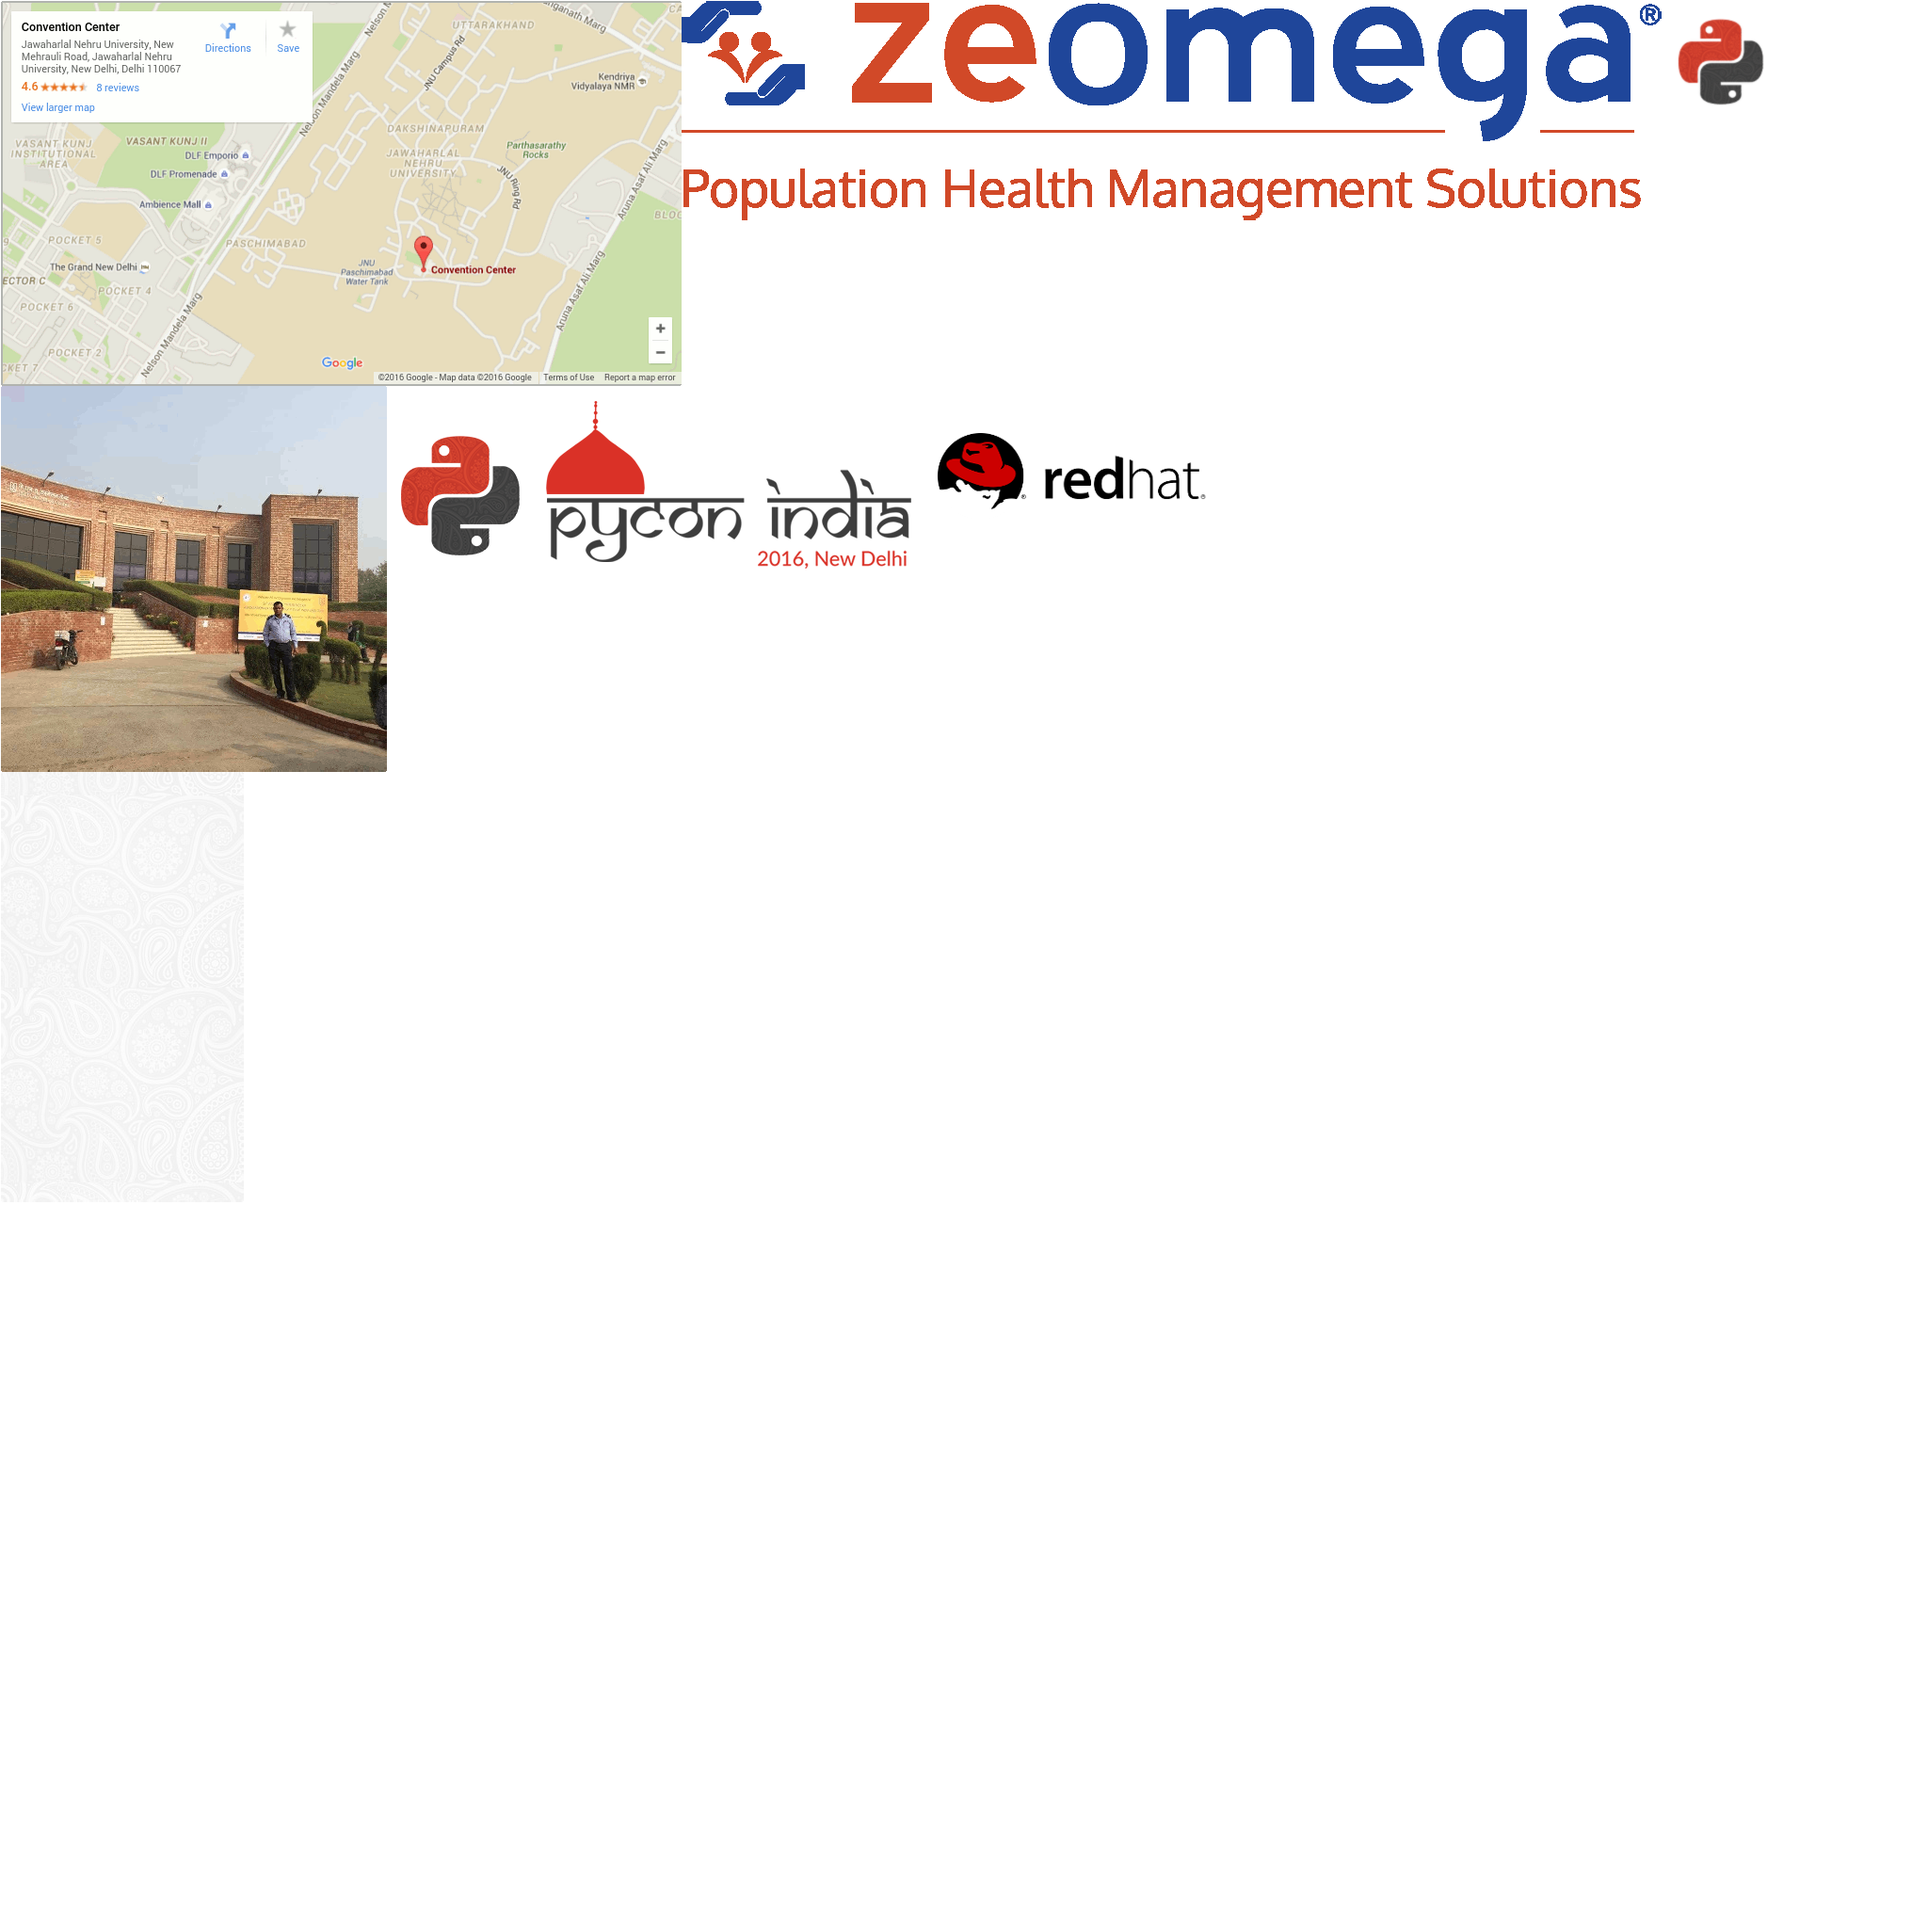
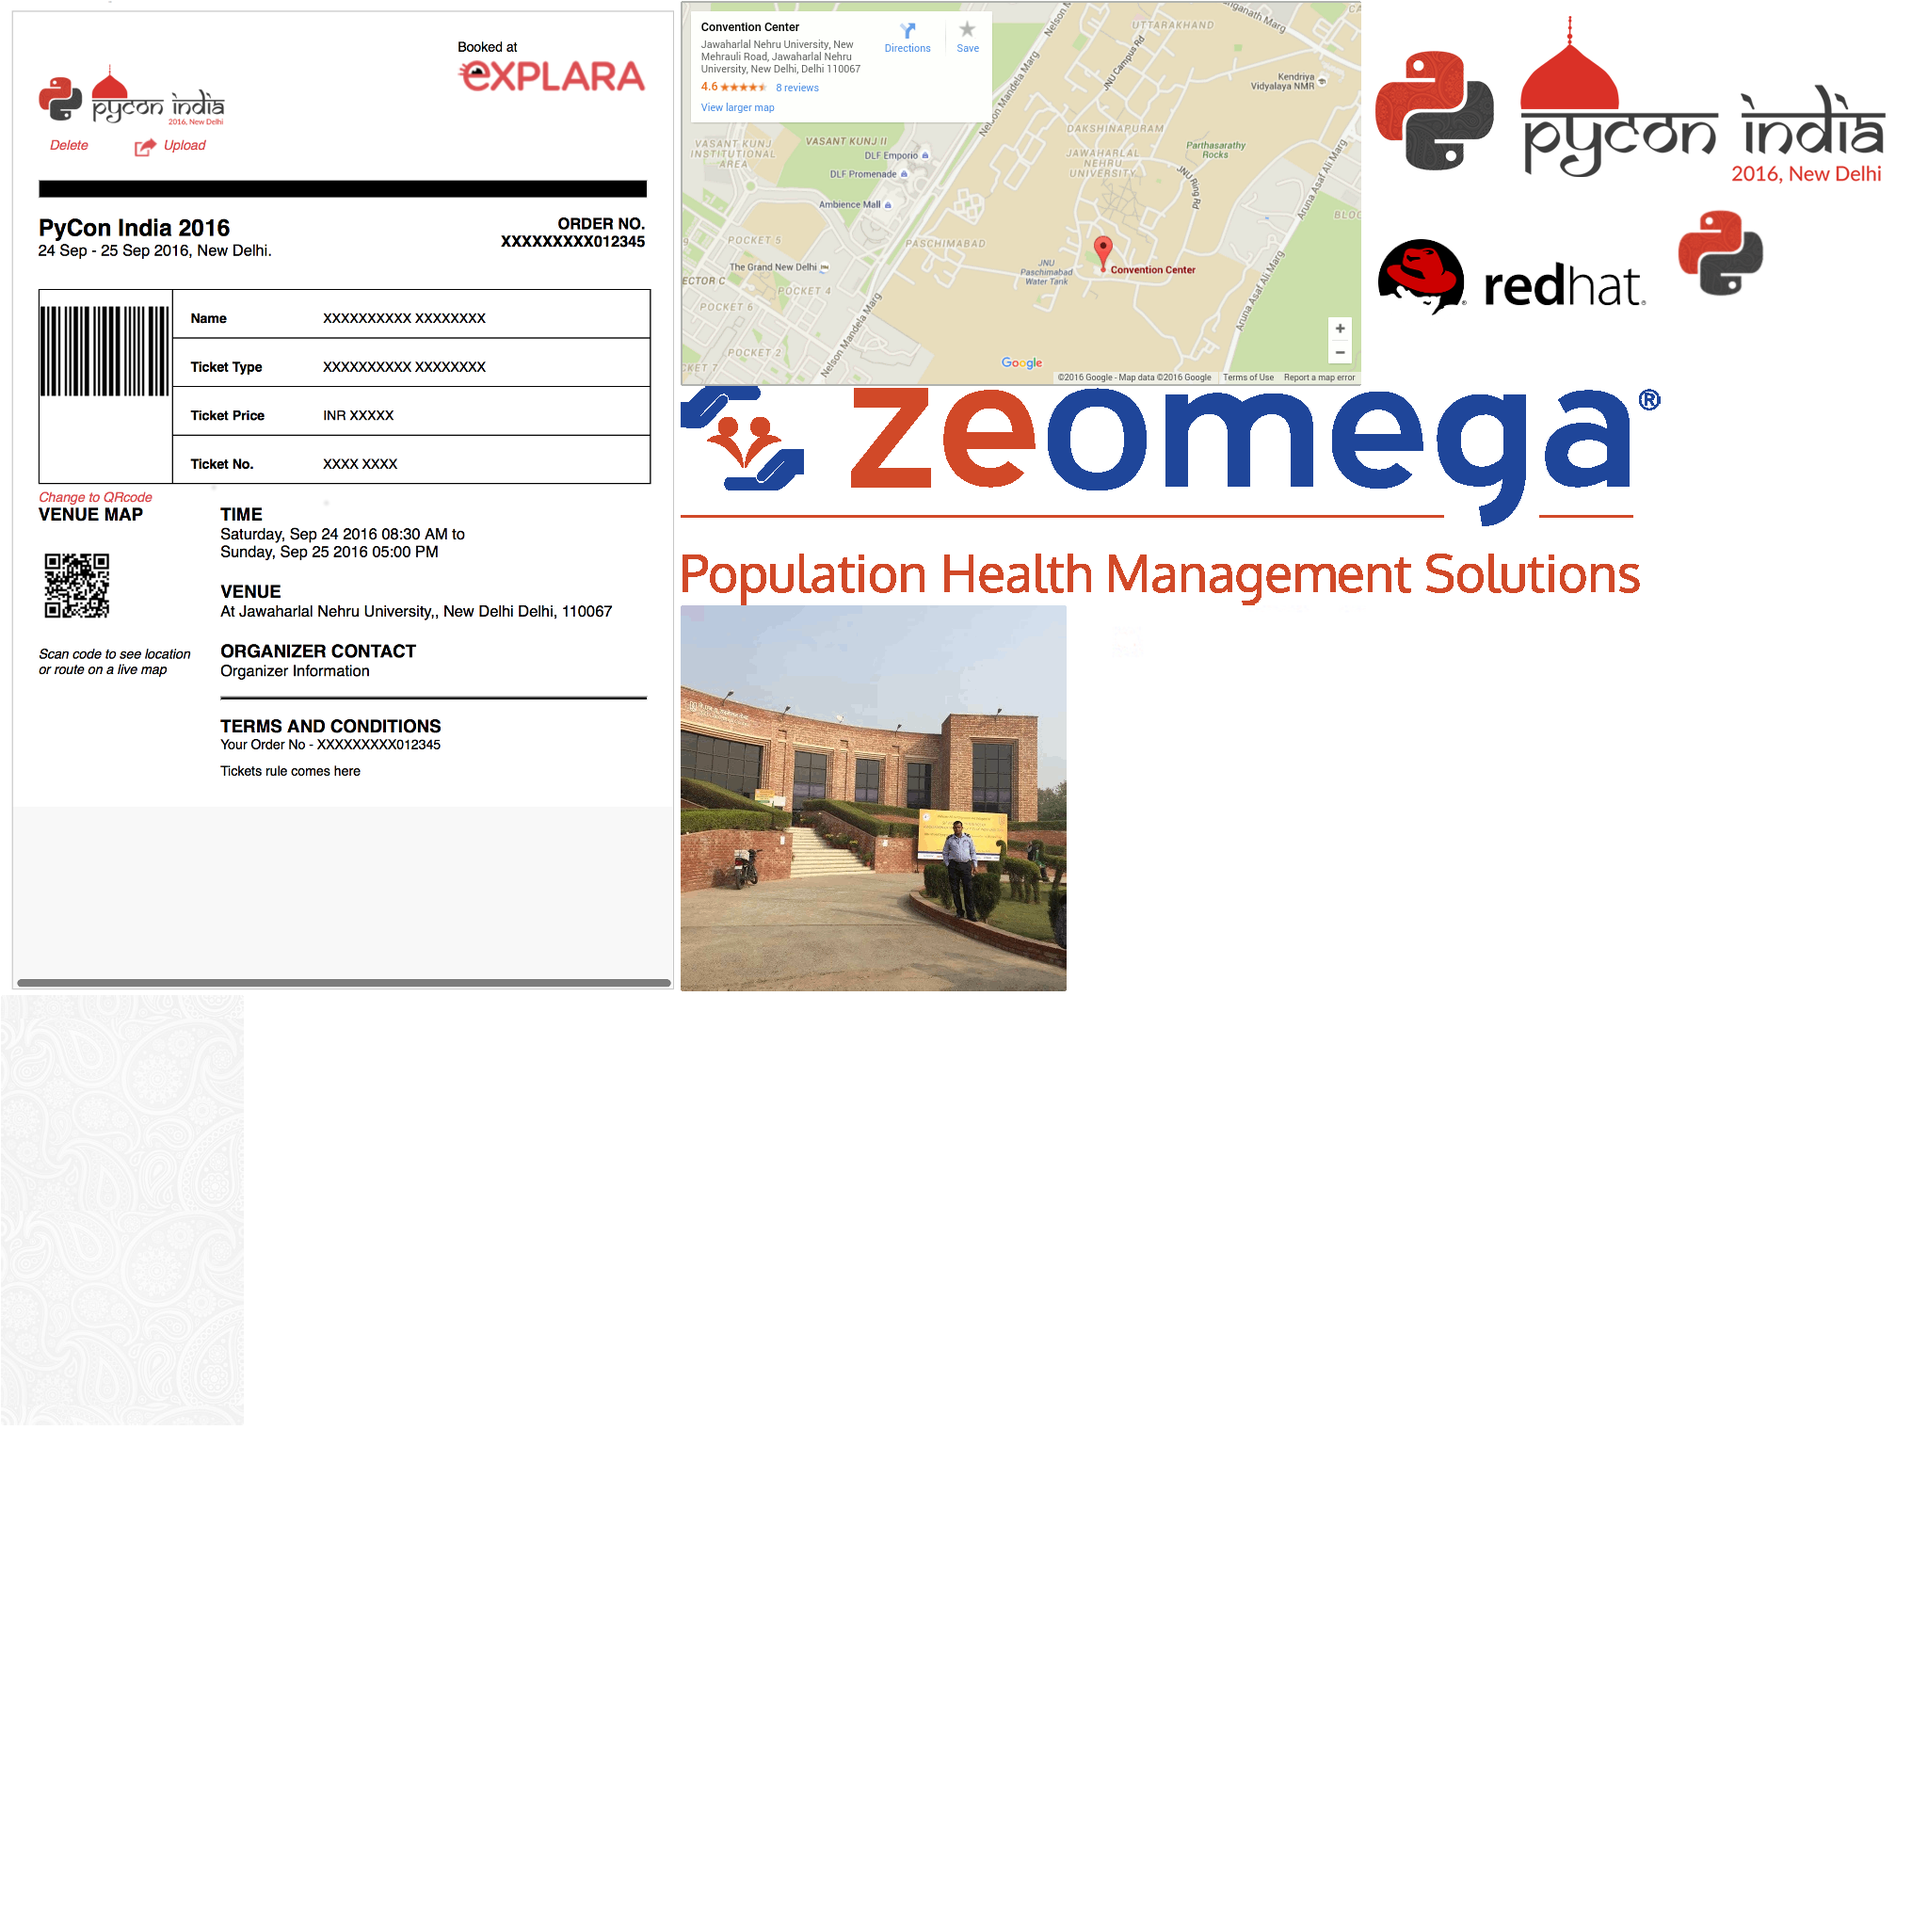
Included Quiz, Tickets screens.

Changed region(s): [[0.0, 0.0, 1.0, 0.5312]]

diff --git a/pyconindia/uix/screens/screenquiz.py b/pyconindia/uix/screens/screenquiz.py
@@ -1,0 +1,73 @@
+from kivy.uix.screenmanager import Screen
+from kivy.lang import Builder
+from kivy.app import App
+from kivy.factory import Factory
+
+
+
+
+class ScreenQuiz(Screen):
+    '''KBC game'''
+
+    Builder.load_string('''
+<OptionButton@Button>
+    correct: False
+    background_color: (1, 1, 1, 1) if self.state == 'normal' else ((0, 1, 0, 1) if self.correct == "True" else (1, 0, 0, 1))
+    background_normal: 'atlas://data/default/button'
+    background_down: self.background_normal
+    on_release: app.screenquiz.correct_answer() if self.correct == 'True' else app.screenquiz.wrong_answer()
+
+<ScreenQuiz>
+    name: 'ScreenQuiz'
+    AsyncImage
+        allow_stretch: True
+        #  keep_ratio: False
+        source: 'http://www.wisdomforwinning.net/wp-content/uploads/2015/09/11-ridiculous-gifts-for-the-millionaire-who-has-everything.jpg'
+    BoxLayout
+        orientation: 'vertical'
+        Label
+            id: lbl_question
+            text: 'Your Question Here'
+        GridLayout
+            cols: 2
+            size_hint_y: None
+            height: dp(200)
+            id: grid_options
+       
+
+''')
+
+    def on_enter(self):    
+        import json
+        data = ''
+        with open('data/questions.json') as fl:
+            data = json.load(fl)
+        questions = data
+        self.questions = questions
+        self.current_question = -1
+        self.load_next_question()
+
+    def load_next_question(self):
+        try:
+            self.current_question += 1
+            allquestions = self.questions['Questions']
+            question = allquestions[self.current_question]
+            question_text = question.keys()[0]
+            qoptions = question[question_text]
+            self.display_question(question_text, qoptions)
+        except IndexError:
+            pass
+    
+    def display_question(self,question, options):
+        self.ids.lbl_question.text = question
+        self.ids.grid_options.clear_widgets()
+        for option in options.keys():
+            ob = Factory.OptionButton(text=option)
+            self.ids.grid_options.add_widget(ob)
+            ob.correct = options[option]
+
+    def correct_answer(self):
+        self.load_next_question()
+
+    def wrong_answer(self):
+        print('wrong answer')

diff --git a/pyconindia/uix/screens/navigationscreen.py b/pyconindia/uix/screens/navigationscreen.py
@@ -16,19 +16,21 @@ class NavigationScreen(Screen):
 <TouchRippleBehavior>
     ripple_color: app.base_active_color
 
-<MenuButton@TouchRippleBehavior+ToggleButtonBehavior+Background>
+<PyConButton@TouchRippleBehavior+ToggleButtonBehavior+Background>
     text: ''
     size_hint_y: None
     allow_no_selection: False
-    group: 'LeftPanel'
     height: dp(45)
     color: app.base_active_color if self.state == 'normal' else app.base_inactive_color
     source: 'atlas://data/default/but_light'
-    on_released: app.navigationdrawer.toggle_state()
     Label:
         size: root.size
         pos: root.pos
         text: root.text
+
+<MenuButton@PyConButton>
+    group: 'LeftPanel'
+    on_released: app.navigationdrawer.toggle_state()
 
 <LeftPanel@BoxLayout+Background>
     source: 'atlas://data/default/bg'
@@ -51,16 +53,19 @@ class NavigationScreen(Screen):
                 on_release: app.load_screen('ScreenSponsor', manager=app.navigation_manager)
             MenuButton
                 text: 'Venue'
+                on_release: app.load_screen('ScreenVenue', manager=app.navigation_manager)
             # MenuButton
             #     text: 'OpenSpaces'
             # MenuButton
             #     text: 'DevSprints'
             MenuButton
                 text: 'Ticket'
+                on_release: app.load_screen('ScreenTicket', manager=app.navigation_manager)
             MenuButton
                 text: 'Community'
             MenuButton
                 text: 'Quiz'
+                on_release: app.load_screen('ScreenQuiz', manager=app.navigation_manager)
             MenuButton
                 text: 'About'
             MenuButton

diff --git a/pyconindia/uix/screens/screensponsor.py b/pyconindia/uix/screens/screensponsor.py
@@ -6,8 +6,40 @@ from kivy.uix.screenmanager import Screen
 from kivy.lang import Builder
 
 class ScreenSponsor(Screen):
+
     
     Builder.load_string('''
 <ScreenSponsor>
     name: 'ScreenSponsor'
+    BoxLayout
+        padding: dp(12)
+        orientation: 'vertical'
+        spacing: dp(4)
+        Image
+            source: 'atlas://data/default/fossee'
+            allow_stretch: True
+            size_hint: 1, 1
+        BoxLayout
+            orientation: 'vertical'
+            spacing: dp(12)
+            Image
+                allow_stretch: True
+                source: 'atlas://data/default/delhivery'
+            BoxLayout
+                orientation: 'vertical'
+                Widget
+                Image
+                    allow_stretch: True
+                    source: 'atlas://data/default/analyticsvidya'
+        Button
+            text: 'Sponsor Us'
+            default: True
+            size_hint_y: None
+            height: dp(40)
+            on_release: webbrowser.open('https://in.pycon.org/2016/sponsorship-prospectus.pdf')
+        Button
+            text: 'Contact Us'
+            size_hint_y: None
+            height: dp(40)
+            on_release: webbrowser.open('mailto:sponsorship@in.pycon.org')
 ''')

diff --git a/pyconindia/uix/screens/screenticket.py b/pyconindia/uix/screens/screenticket.py
@@ -1,0 +1,45 @@
+'''Ticket:
+Display the explara link for the ticket page.
+'''
+from kivy.uix.screenmanager import Screen
+from kivy.lang import Builder
+
+class ScreenTicket(Screen):
+
+
+    Builder.load_string('''
+    #:import webbrowser webbrowser
+<ScreenTicket>
+    name: 'ScreenTicket'
+    BoxLayout
+        padding: dp(12)
+        orientation: 'vertical'
+        spacing:dp(5)
+        Image:
+            source: 'atlas://data/default/ticket'
+            allow_stretch: True
+            keep_ratio: False
+            size: root.size
+            opacity: 1
+        BoxLayout
+            size_hint_y: None
+            height: dp(50)
+            PyConButton
+                text: 'My tickets'
+                size_hint_y: None
+                group: 'tickets'
+                height: dp(54)
+                on_released:
+                    webbrowser.open('http://in.explara.com/a/account/manage/my-orders')
+            PyConButton
+                default: True
+                group: 'tickets'
+                text: 'Buy tickets'
+                size_hint_y: None
+                height: dp(54)
+                on_release:
+                    webbrowser.open('https://in.explara.com/e/pycon-india-2016')
+''')  
+
+    
+

diff --git a/pyconindia/uix/screens/screenschedule.py b/pyconindia/uix/screens/screenschedule.py
@@ -61,12 +61,12 @@ class ScreenSchedule(Screen):
         Color
             rgba: root.back_color if root.back_color else (1, 1, 1, 1)
         Rectangle
-            size: dp(300), dp(36)
+            size: dp(270), dp(36)
             pos: self.x, self.top - dp(36)
         Color
             rgba: (list(root.back_color[:3]) + [.3]) if root.back_color else (1, 1, 1, 1)
         Rectangle
-            size: dp(300), dp(36)
+            size: dp(270), dp(36)
             pos: self.x + dp(7), self.top - (dp(36) + dp(7))
     
 
@@ -91,7 +91,7 @@ class ScreenSchedule(Screen):
         # from utils import fetch_data
         # fetch_data()
     BoxLayout
-        spacing: dp(13)
+        spacing: dp(20)
         orientation: 'vertical'
         padding: dp(4)
         Topic

diff --git a/README.md b/README.md
@@ -83,7 +83,7 @@ That's it. Now to load this screen::
             app.load_screen('ScreenSponsor', manager=anager=app.navigation_manager)
 
 `manager=` is a optional parameter, which specifies which `ScreenManager` to load this screen in.
-If it is omitted this screen will be loaded into the main Screen Manager Which is responsobile for loading `StartupScreen` and `NavigationScreen`
+If it is omitted this screen will be loaded into the main Screen Manager Which is responsobile for loading `StartupScreen` and `NavigationScreen`.
 
 ** Release Notes **
 
